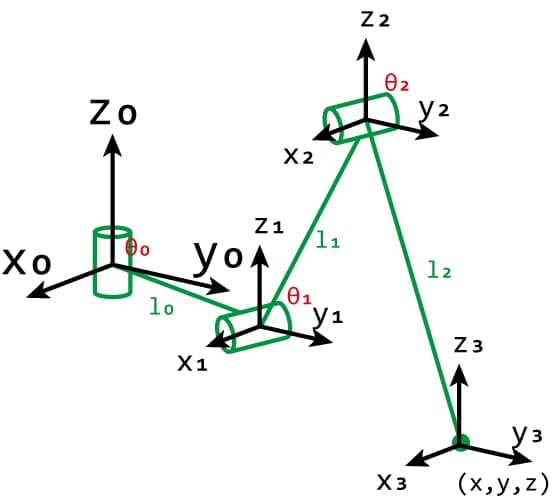
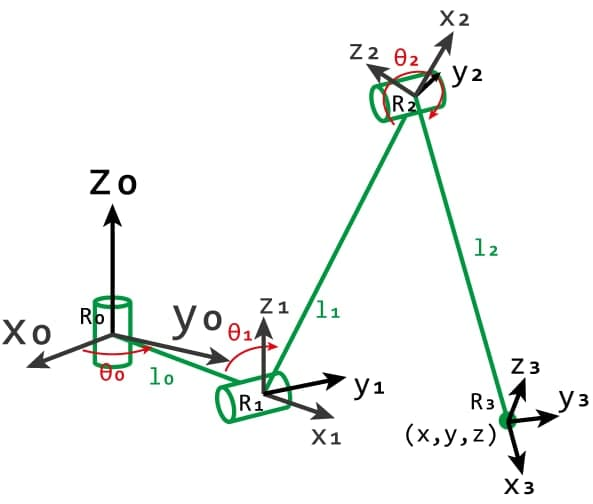
Update from https://github.com/Sdelpeuch/SiteSdelpeuch/commit/9827c5ae8a3038050d2f312f4d9f68ca289fa397

Changed region(s): [[0.0, 0.0, 1.0, 0.99]]

diff --git a/assets/md/robotique/1/index.html b/assets/md/robotique/1/index.html
@@ -187,8 +187,6 @@
 de $(\theta_0, \theta_1, \theta_2)$ (modèle direct) puis l&rsquo;expression de $(\theta_0, \theta_1,
 \theta_2)$ en fonction de $(x,y,z)$ (modèle inverse). Nous définissons le repère
 $\mathcal{R}$ centré sur la première articulation de la patte (repère 0).</p>
-<p>soit la matrice $A$ correspondant à l&rsquo;origine du repère 1, $A = \begin{pmatrix}
-l_0 \times \cos{\theta_0} \\ l_0 \times \sin{\theta_0} \\ 0 &amp; \end{pmatrix}_\mathcal{R}$</p>
 <h4 id="rappel-sur-la-matrice-de-rotation">Rappel sur la matrice de rotation.</h4>
 <p>En 2D autour de 0 : $rot_{(0,\theta)} = \begin{pmatrix} \cos{\theta} &amp; - \sin{\theta} \\<br>
 \sin{\theta} &amp; \cos{\theta} \end{pmatrix}$</p>
@@ -199,6 +197,28 @@ l_0 \times \cos{\theta_0} \\ l_0 \times \sin{\theta_0} \\ 0 &amp; \end{pmatrix}_
 0 &amp; 0 &amp; 1 \\<br>
 \end{pmatrix}$</p>
 <h2 id="modèle-direct">Modèle Direct</h2>
+<p>Soit la matrice $A$ correspondant à l&rsquo;origine du repère 1, $A = \begin{pmatrix}
+l_0 \times \cos{\theta_0} \\ l_0 \times \sin{\theta_0} \\ 0 &amp; \end{pmatrix}_\mathcal{R}$</p>
+<p>Soit la matrice $B$ correspondant à l&rsquo;origine du repère 2, $B = \begin{pmatrix}
+l_1 \cos{(\pi - \theta_1 )} \\ 0 \\ l_1 \sin{(\pi - \theta_1)}\end{pmatrix}_{\mathcal{R}_1}$ on a donc</p>
+<p>$$\begin{align*}
+rot_{\theta_0, \mathcal{O}_z} &amp;\cdot B_{\mathcal{R}_1} + A_2 \\<br>
+\begin{pmatrix} \cos{\theta} &amp; -\sin{\theta} &amp; 0 \\<br>
+\sin{\theta} &amp; \cos{\theta}  \\<br>
+0 &amp; 0 &amp; 1 \end{pmatrix} &amp;\cdot \begin{pmatrix}
+l_1 \cos{(\pi - \theta_1)} \\<br>
+0 \\<br>
+l_1 \sin{(\pi - \theta_1)}
+\end{pmatrix} + \begin{pmatrix} l_0 \cos{\theta_0} \\ l_0 \sin{\theta_0} \\<br>
+0 \end{pmatrix}
+\end{align*}$$</p>
+<p>Soit $M$ le point au bout de la patte, nous pouvons donc caractériser $\vec{BM}
+= \begin{pmatrix} l_2 \cos{(\pi - \theta_2)} \\ 0 \\ l_2 \sin{(\pi -
+\theta_2)} \end{pmatrix}_{\mathcal{R}_2}$</p>
+<p>Au final on a $(x,y,z) = r_{\mathcal{O}_z, \theta_0} \cdot r_{(0,y),
+\pi-\theta_1} \cdot \vec{BM}_{\mathcal{R}_2} + B_{\mathcal{R}_0}$</p>
+<h2 id="modèle-inverse">Modèle Inverse</h2>
+<h2 id="modèle-direct-1">Modèle Direct</h2>
 <h3 id="repère-1">Repère 1</h3>
 <p>$$
 \begin{cases}
